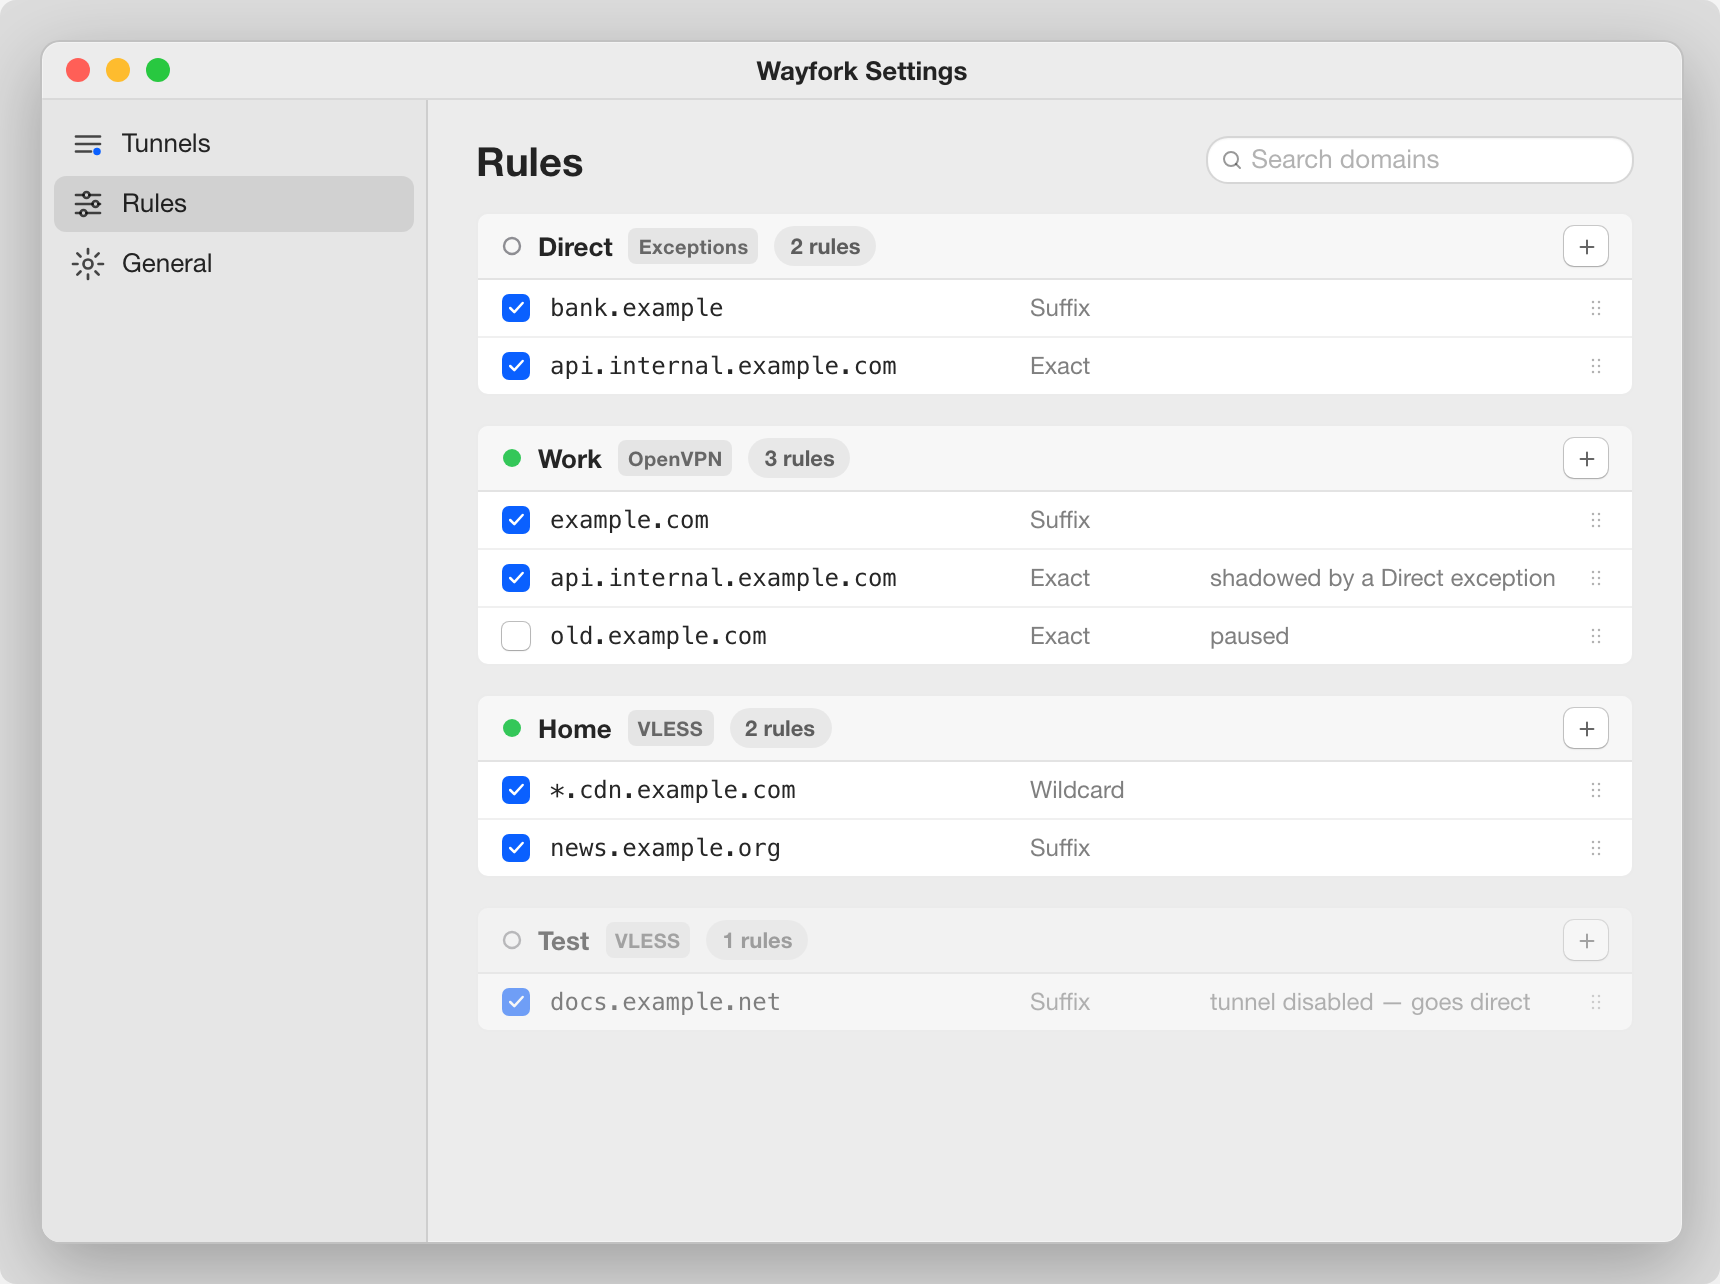
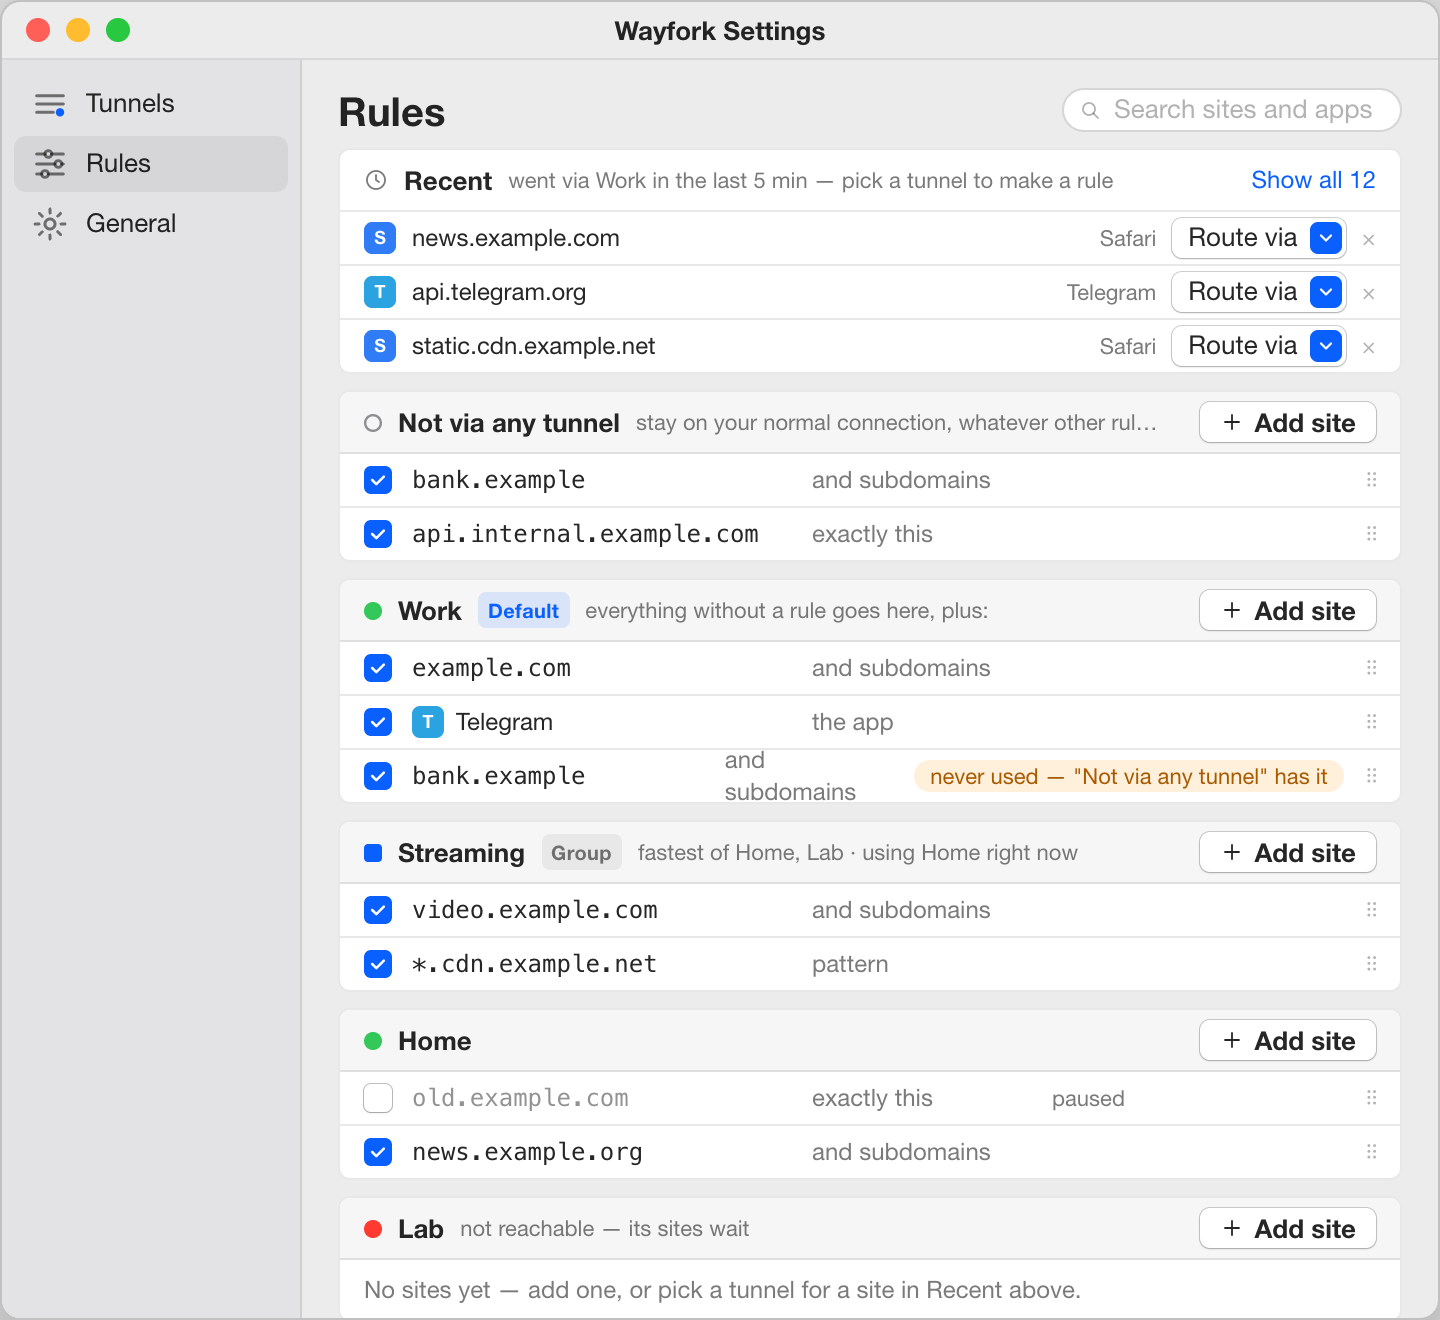
docs: README for 0.8.0 — groups, proxy ports, block list, Can't reach, Connections; screenshots re-rendered from variant C / W9–W17
scripts/render-screenshots.mjs renders every README screenshot from the
prototype boards over CDP; boards W12 and W17 fixed to show their whole
window.

diff --git a/docs/design/prototype/windows.html b/docs/design/prototype/windows.html
@@ -731,7 +731,7 @@ body { background:#eaeaea; }
 .vc .strip.cx .cols .c1 { grid-column:1 / 3; }
 .vc .strip.cx .cols .num, .vc .strip.cx .rec .num { text-align:right; }
 .vc .strip.cx .rec { height:30px; font-size:12px; border-bottom:1px solid var(--sep); }
-.vc .strip.cx .rec .n { font-weight:600; display:flex; align-items:center; gap:7px; min-width:0; }
+.vc .strip.cx .rec .n { font-weight:600; display:flex; align-items:center; gap:7px; min-width:0; white-space:nowrap; overflow:hidden; }
 .vc .strip.cx .rec .n .sub { font-weight:400; color:var(--fg2); font-size:11px; white-space:nowrap; overflow:hidden; text-overflow:ellipsis; }
 .vc .strip.cx .rec .num { font-variant-numeric:tabular-nums; color:var(--fg2); }
 .vc .strip.cx .rec .num.ok { color:var(--fg); }
@@ -959,7 +959,7 @@ body { background:#eaeaea; }
 </div></section>
 <section id="W12" class="board"><h2>12 · Main window › Rules with the Recent strip</h2>
 <div class="bd" style="width:920px">
-<div class="t"><div class="win">
+<div class="t"><div class="win" style="height:900px">
   <div class="titlebar"><svg width="16" height="16" viewBox="0 0 18 18" fill="none" stroke="currentColor" stroke-width="2.2" stroke-linecap="round" stroke-linejoin="round" style="flex:none;opacity:0.8"><path d="M9 16V9.5M9 9.5L4 3.5M9 9.5L14 3.5"/><circle cx="4" cy="3.5" r="1.9" fill="currentColor" stroke="none"/><circle cx="14" cy="3.5" r="1.9" fill="currentColor" stroke="none"/><circle cx="9" cy="16" r="1.9" fill="currentColor" stroke="none"/></svg><span class="nm">Wayfork</span><div class="wcap"><span><svg viewBox="0 0 10 10"><path d="M0 5h10"/></svg></span><span><svg viewBox="0 0 10 10"><rect x="0.5" y="0.5" width="9" height="9"/></svg></span><span><svg viewBox="0 0 10 10"><path d="M0 0l10 10M10 0L0 10"/></svg></span></div></div>
   <div class="content">
     <div class="side"><div class="sitem"><svg viewBox="0 0 24 24"><rect x="3" y="3" width="8" height="8" rx="1.5"/><rect x="13" y="3" width="8" height="5" rx="1.5"/><rect x="13" y="10" width="8" height="11" rx="1.5"/><rect x="3" y="13" width="8" height="8" rx="1.5"/></svg><span>Dashboard</span></div><div class="sitem"><svg viewBox="0 0 24 24"><path d="M4 7h16M4 12h16M4 17h10"/><circle cx="18" cy="17" r="2.5" fill="var(--acc)" stroke="none"/></svg><span>Tunnels</span><span class="cnt">4</span></div><div class="sitem on"><svg viewBox="0 0 24 24"><path d="M4 6h5M13 6h7M4 12h11M19 12h1M4 18h3M11 18h9"/><circle cx="11" cy="6" r="2"/><circle cx="17" cy="12" r="2"/><circle cx="9" cy="18" r="2"/></svg><span>Rules</span><span class="cnt">9</span></div><div class="sitem"><svg viewBox="0 0 24 24"><circle cx="12" cy="12" r="3"/><path d="M12 2v3M12 19v3M2 12h3M19 12h3M4.9 4.9l2.1 2.1M17 17l2.1 2.1M4.9 19.1L7 17M17 7l2.1-2.1"/></svg><span>General</span></div><div style="flex:1"></div><div class="sitem"><svg viewBox="0 0 24 24"><path d="M5 3h9l5 5v13H5z"/><path d="M14 3v5h5M8 13h8M8 17h5"/></svg><span>Logs</span></div></div>
@@ -1143,8 +1143,8 @@ body { background:#eaeaea; }
 </div></section>
 
 <section id="W17" class="board"><h2>17 · Main window › Logs › Connections by exit (F20 draft)</h2>
-<div class="bd" style="width:900px">
-<div class="t"><div class="win">
+<div class="bd" style="width:1100px">
+<div class="t"><div class="win" style="width:1040px">
   <div class="titlebar"><svg width="16" height="16" viewBox="0 0 18 18" fill="none" stroke="currentColor" stroke-width="2.2" stroke-linecap="round" stroke-linejoin="round" style="flex:none;opacity:0.8"><path d="M9 16V9.5M9 9.5L4 3.5M9 9.5L14 3.5"/><circle cx="4" cy="3.5" r="1.9" fill="currentColor" stroke="none"/><circle cx="14" cy="3.5" r="1.9" fill="currentColor" stroke="none"/><circle cx="9" cy="16" r="1.9" fill="currentColor" stroke="none"/></svg><span class="nm">Wayfork</span><div class="wcap"><span><svg viewBox="0 0 10 10"><path d="M0 5h10"/></svg></span><span><svg viewBox="0 0 10 10"><rect x="0.5" y="0.5" width="9" height="9"/></svg></span><span><svg viewBox="0 0 10 10"><path d="M0 0l10 10M10 0L0 10"/></svg></span></div></div>
   <div class="content">
     <div class="side"><div class="sitem"><svg viewBox="0 0 24 24"><rect x="3" y="3" width="8" height="8" rx="1.5"/><rect x="13" y="3" width="8" height="5" rx="1.5"/><rect x="13" y="10" width="8" height="11" rx="1.5"/><rect x="3" y="13" width="8" height="8" rx="1.5"/></svg><span>Dashboard</span></div><div class="sitem"><svg viewBox="0 0 24 24"><path d="M4 7h16M4 12h16M4 17h10"/><circle cx="18" cy="17" r="2.5" fill="var(--acc)" stroke="none"/></svg><span>Tunnels</span><span class="cnt">4</span></div><div class="sitem"><svg viewBox="0 0 24 24"><path d="M4 6h5M13 6h7M4 12h11M19 12h1M4 18h3M11 18h9"/><circle cx="11" cy="6" r="2"/><circle cx="17" cy="12" r="2"/><circle cx="9" cy="18" r="2"/></svg><span>Rules</span><span class="cnt">9</span></div><div class="sitem"><svg viewBox="0 0 24 24"><circle cx="12" cy="12" r="3"/><path d="M12 2v3M12 19v3M2 12h3M19 12h3M4.9 4.9l2.1 2.1M17 17l2.1 2.1M4.9 19.1L7 17M17 7l2.1-2.1"/></svg><span>General</span></div><div style="flex:1"></div><div class="sitem on"><svg viewBox="0 0 24 24"><path d="M5 3h9l5 5v13H5z"/><path d="M14 3v5h5M8 13h8M8 17h5"/></svg><span>Logs</span></div></div>

diff --git a/README.md b/README.md
@@ -22,8 +22,13 @@ Windows**, one repository, one rule model, one export format.
 ## Features
 
 - **Tunnels** — OpenVPN profiles (inline certs, credentials asked once), WireGuard configs,
-  and VLESS / Shadowsocks / Trojan / VMess links (TCP, WebSocket, gRPC; TLS and REALITY).
-  Secrets go to the Keychain (macOS) or DPAPI (Windows), never to disk in the clear.
+  VLESS / Shadowsocks / Trojan / VMess links (TCP, WebSocket, gRPC; TLS and REALITY) and
+  subscription URLs. Secrets go to the Keychain (macOS) or DPAPI (Windows), never to disk
+  in the clear.
+- **Tunnel groups** — several tunnels behind one name, *Fastest* or *First live*; rules
+  and the default exit can point at a group, and the card shows which member is in use.
+- **Latency on every card** — measured through each tunnel every 10 s with a 2-minute
+  sparkline; a tunnel that stops answering reads *Not reachable*, with a Retry.
 - **Rules** — `domain → tunnel`, first match wins. Exact (`api.example.com`), suffix
   (`example.com` covers subdomains), wildcard (`*.cdn.example.com`).
 - **Application rules** — route an app, and every process inside it, through a tunnel or
@@ -35,9 +40,21 @@ Windows**, one repository, one rule model, one export format.
 - **Exceptions** — rules that target *Direct*. They win over everything, carving domains,
   apps or ranges out of the default tunnel. `.local`, `.lan`, `.internal`, `.home.arpa`
   are always direct.
+- **Recent** — the sites that went the default way in the last 5 minutes, with the app
+  that opened them; *Route via ▾* turns a row into a rule in one click.
+- **Local proxy port** — a `127.0.0.1:‹port›` SOCKS5/HTTP address per tunnel or group,
+  for `curl`, a browser profile or any app you want through one exit without a rule.
+- **Block ads and trackers** — one switch backed by a bundled, pinned block list compiled
+  into a sing-box rule-set; *Never block* exceptions and a *Blocked N today* counter.
 - **Live edits** — a rule change is a hot reload; a tunnel change reconnects that tunnel only.
 - **Status and traffic** — tray/menu bar icon (off · connecting · on · degraded · error),
   a card per tunnel with state, rule count and live down/up rate, plus a Direct row.
+- **Can't reach** — the Logs window lists the connections that could not be established:
+  site, app, tries, why (*no answer*, *refused*, *blocked by your list*, *‹tunnel› is
+  down*), via which exit; a click filters the log to that site.
+- **Connections by exit** — a second view of the Logs window: per tunnel, group and
+  *Not via any tunnel*, how many connections opened, reached and failed, with the fail
+  rate; an exit expands into its *Can't reach* rows.
 - **Logs and diagnostics** — app, sing-box and per-tunnel OpenVPN logs in one window;
   "Export Diagnostics" zips them with a sanitized config.
 - **Settings** — launch at login, connect on launch, auto-reconnect with backoff, Wayfork
@@ -58,7 +75,7 @@ Requires macOS 14 (Sonoma) or later, Apple silicon or Intel.
 
 1. Download `Wayfork-<version>.dmg`, verify with
    `shasum -a 256 -c Wayfork-<version>.dmg.sha256`, drag **Wayfork** to **Applications**.
-2. Clear the quarantine flag — the 0.2 builds are signed with an Apple *Development*
+2. Clear the quarantine flag — the builds are signed with an Apple *Development*
    certificate but **not notarized**, so Gatekeeper refuses a downloaded copy:
 
    ```sh
@@ -82,7 +99,7 @@ Requires Windows 10 21H2 or Windows 11, x64 or ARM64.
 1. Download `Wayfork-<version>.exe` — it carries both architectures and installs the right
    one. (`Wayfork-<version>-amd64.msi` / `-arm64.msi` are there for MSI-based deployment;
    `$env:PROCESSOR_ARCHITECTURE` says which.) Verify with `Get-FileHash`.
-2. Run it. The 0.2 builds are **unsigned** — no Authenticode certificate yet — so
+2. Run it. The builds are **unsigned** — no Authenticode certificate yet — so
    SmartScreen shows "Windows protected your PC": *More info* → *Run anyway*. The same
    warning appears on the first launch.
 3. The installer puts Wayfork in `%ProgramFiles%\Wayfork`, registers the **Wayfork** service
@@ -118,12 +135,22 @@ under `%LOCALAPPDATA%\Wayfork` are kept.
   than `0.0.0.0/0` is kept as written and flagged — the peer drops whatever falls outside.
 - **Links** — *+ Add › Add from link…* takes `vless://`, `ss://`, `trojan://` and
   `vmess://`; the scheme picks the parser and the sheet shows what it understood. REALITY
-  over TCP is supported, XHTTP is not (see the roadmap). Refused with a reason rather than
+  over TCP and gRPC is supported, XHTTP is not (see the roadmap). Refused with a reason rather than
   guessed: pre-AEAD Shadowsocks ciphers, SIP003 `plugin=`, VMess `alterId` above 0.
 - **Subscriptions** — the same sheet takes an `https://` subscription URL: *Fetch* loads
   it (plain link lines or base64 of them), lists every server with a checkbox and every
   line it could not use with the reason, and adds the checked ones. One-shot: the URL is
   not stored, logged or refreshed — it is a bearer token for every server on it.
+- **Groups** — *+ Add › New group…* puts several tunnels behind one name. *Fastest*
+  measures the members and switches to the quickest; *First live* uses the first member
+  that works and moves on when it fails. Rules and the default exit take a group like a
+  tunnel; the card shows the member in use and why the others are skipped.
+- **Local proxy** — every tunnel and group can expose `127.0.0.1:‹port›` (SOCKS5 and
+  HTTP on one port, from 1081 up) for an app you want through that exit without a rule:
+  `curl --proxy socks5h://127.0.0.1:1081 https://ifconfig.me`. Loopback only.
+- **Latency** — each connected tunnel is probed every 10 s; the number on the card is
+  colour-banded, the sparkline covers 2 minutes, and a tunnel that stops answering reads
+  *Not reachable* with a Retry.
 - *Route everything else through this tunnel* makes it the default exit.
 
 ## Rules
@@ -141,6 +168,10 @@ under `%LOCALAPPDATA%\Wayfork` are kept.
 | `203.0.113.7`, `10.8.0.0/24` | connections opened to that address / subnet |
 
 Rules are grouped by tunnel; the *Direct* group holds exceptions and always comes first.
+Above them, **Recent** lists the sites that went the default way in the last 5 minutes
+with the app that opened them — *Route via ▾* on a row writes the suffix rule for you.
+*Where does ‹site› go?* tests a name against the rules and, with the tunnel up, probes it
+through the exit it would take.
 On Windows, *+ › Application…* lists the applications that are running, so an app is picked
 by name; *Browse…* there points at an `.exe` that is not started.
 Inside a group, domain, application and IP rules are peers. A rule that can never fire —
@@ -158,11 +189,35 @@ Worth knowing:
 - Application rules see the process that opens the connection: an app talking through
   another local proxy is seen as that proxy.
 
+## Seeing what happens
+
+| macOS — Can't reach | macOS — Connections by exit | Windows — Connections by exit |
+|---|---|---|
+| ![macOS Logs › Can't reach](docs/screenshots/logs-cant-reach.png) | ![macOS Logs › Connections](docs/screenshots/logs-connections.png) | ![Windows Logs › Connections](docs/screenshots/windows/logs-connections.png) |
+
+- **Can't reach** — a pane above the log lines with every connection that could not be
+  established since Turn On: site (or `ip:port`), the app that opened it, tries, why
+  (*no answer* · *refused* · *blocked by your list* · *no such name* · *‹tunnel› is
+  down*), the exit, when last. Click a row to filter the log to that site; *Route via ▾*
+  fixes a site that only works through a tunnel. The popover shows a red line while
+  anything failed in the last 5 minutes.
+- **Connections** — the same window's second view: one row per exit with connections
+  opened, reached and failed since Turn On (or *Last 5 min*) and a fail-rate bar; an
+  exit expands into its *Can't reach* rows. ⇧⌘L from the popover, or *Details* on a
+  failing card. Counts are connections, not requests — one page load is dozens — and
+  *reached* means the connection opened, not that the site behaved.
+- Both read sing-box's own log, so they need log detail *Normal* (Settings › General);
+  at *Problems* the counts show `—`. What happens inside a connection (an HTTP 403, a
+  stalled download) is invisible here.
+- On Windows the same two live on the main window's *Logs* page; *Connections* is also in
+  the tray menu.
+
 ## How it works
 
 - [sing-box](https://github.com/SagerNet/sing-box) owns a TUN interface and the default
   route, answers DNS with fake IPs so every connection is routed by domain, and hosts the
-  VLESS outbounds.
+  VLESS / Shadowsocks / Trojan / VMess / WireGuard outbounds, the groups (`urltest` /
+  `selector`) and the local proxy inbounds.
 - Each OpenVPN profile runs as its own `openvpn --route-nopull` process on its own
   interface (`utun` on macOS, an `ovpn-dco` `Wayfork-N` adapter on Windows); sing-box
   reaches it through an interface-bound outbound.
@@ -198,12 +253,17 @@ Worth knowing:
   system-wide HTTP/SOCKS proxy bypasses the TUN too, for the apps that honour it.
 - **Rates show `—`** — the GUI has not heard from the privileged half for 3 s; if traffic is
   flowing, *Logs* will show `traffic: clash api unreachable`.
+- **Can't reach / Connections stay empty** — they need log detail *Normal* or above; at
+  *Problems* sing-box prints none of the lines they read. After an upgrade, *Reinstall
+  helper* once — the counters come from the privileged half.
+- **A site works only through a tunnel** — it shows up under *Can't reach* with the exit
+  it took; *Route via ▾* on the row writes the rule.
 - **Tunnel failed** — the card carries the reason (bad credentials, key passphrase, config
   error) and the pencil jumps to the field to fix.
 - **Bug report** — *Settings › General › Export Diagnostics* produces a zip with secrets
   stripped.
 
-## Limitations (0.2)
+## Limitations
 
 - **IPv4 only while On** — the TUN has no IPv6 address and DNS returns no AAAA records, so
   IPv6-only destinations are unreachable until you Turn Off. IPv6 rules come with IPv6 support.
@@ -217,7 +277,10 @@ Worth knowing:
 - **Application rules** only see traffic entering the TUN, and are keyed by path — a moved
   app needs a new rule. They do not cross platforms in an export.
 - **IP rules** are IPv4 and match the destination address only; no port or protocol conditions.
-- No rule lists, no subscription auto-refresh, no XHTTP yet.
+- Subscriptions are fetched once, not refreshed; no rule lists; no XHTTP (sing-box does
+  not implement it).
+- *Can't reach* and *Connections* count connections that failed to open; a request that
+  reached the server and failed there is invisible inside TLS.
 - Neither build is signed for its store: macOS is not notarized, Windows is not Authenticode-signed.
 
 ## Development
